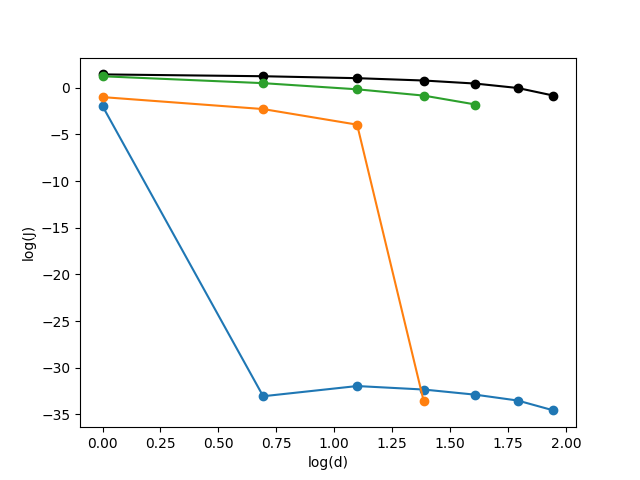
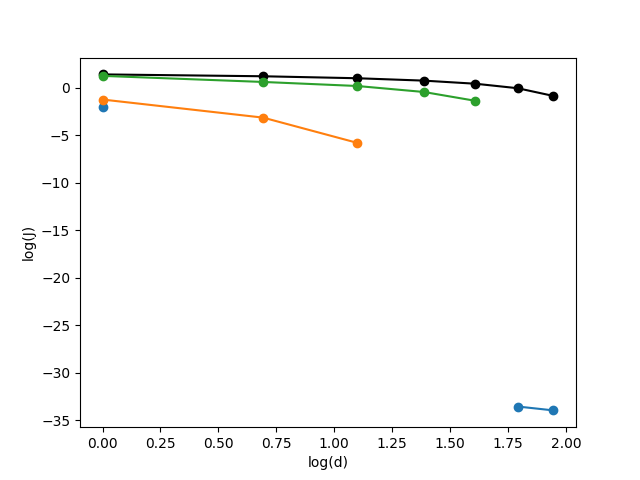
first attempt at changing the unitaries

diff --git a/Luca/Coding and Latex/Python/BrickWall_51.py b/Luca/Coding and Latex/Python/BrickWall_51.py
@@ -1,17 +1,26 @@
 import numpy as np
 from functools import reduce
 from scipy.stats import unitary_group as U
+from scipy.linalg import expm
 
 class BrickWallCircuit:
-	def __init__(self,N,M,psiIn = None,reverseOrder = 0,gates = None):
+	def __init__(self,N,M,psiIn = None,reverseOrder = 0,gates = None,gatesRandomFlag = False):
 		self.N = N
 		self.M = M
-		self.gates = gates
 		self.reverseOrder = reverseOrder
 		self.nrGates = int(np.floor(N/2)*np.ceil(M/2)+np.floor((N-1)/2)*np.floor(M/2))
 
-		if gates is None: 
-			gates = [U.rvs(4).reshape(2,2,2,2) for i in range(self.nrGates)]
+		if gates is None:
+			if gatesRandomFlag: 
+				gates = [U.rvs(4).reshape(2,2,2,2) for i in range(self.nrGates)]
+			else: #make random matrix closer to identity
+				epsilon = 0.01
+				gates = []
+				for i in range(self.nrGates):
+					R = U.rvs(4)
+					M = np.eye(4)+epsilon*R
+					H = (M+np.conjugate(np.transpose(M)))/2
+					gates.append(expm(-(1j)*H).reshape(2,2,2,2))
 		self.gates = gates
 
 		if psiIn is None:

diff --git a/Luca/Coding and Latex/Python/testing.py b/Luca/Coding and Latex/Python/testing.py
@@ -3,17 +3,18 @@ import BrickWall_51 as bw
 import ExactDiag_21 as ed
 import Entropy as en
 
-circuit = bw.BrickWallCircuit(5, 8)
+circuit = bw.BrickWallCircuit(8,2, gatesRandomFlag=False)
 psiTarget = ed.exactDiag(circuit.N, 1.5, 1)[1].reshape(tuple([2]*circuit.N))
 #psiTarget = (1/np.sqrt(2))*np.array([1,0,0,1]).reshape(2,2) #bell state
-A = [1,4,5]
-B = [2]
+# A = [1,4,5]
+# B = [2]
 
-entropy = en.S([1,4,5], psiTarget)
-print(entropy)
+# entropy = en.S([1,4,5], psiTarget)
+# print(entropy)
 
-mutualI = en.I(A,B, psiTarget)
-print(mutualI)
+# mutualI = en.I(A,B, psiTarget)
+# print(mutualI)
 
-print(np.array(en.matrixI(psiTarget)))
-#circuit.optimize(psiTarget,0.001,1000)
+# print(np.array(en.matrixI(psiTarget)))
+
+circuit.optimize(psiTarget,0.001,1000)

diff --git a/Luca/Coding and Latex/Python/plots_9.py b/Luca/Coding and Latex/Python/plots_9.py
@@ -86,6 +86,6 @@ def plotJ(psiTarget,layers,log=False):
 	ax.legend()
 	plt.show() 
 
-#plotS(psiTarget,[1,2,3])
-#plotMatrixI(psiTarget, [1,2,3])
+plotS(psiTarget,[1,2,3])
+plotMatrixI(psiTarget, [1,2,3])
 plotJ(psiTarget, [1,2,3],True)
